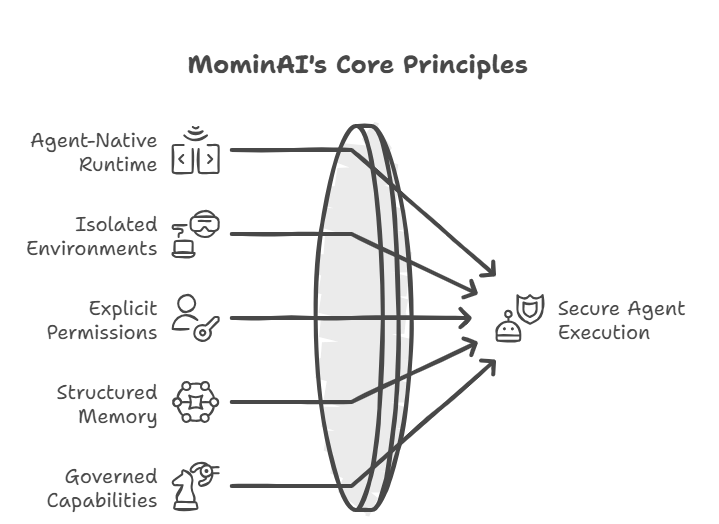
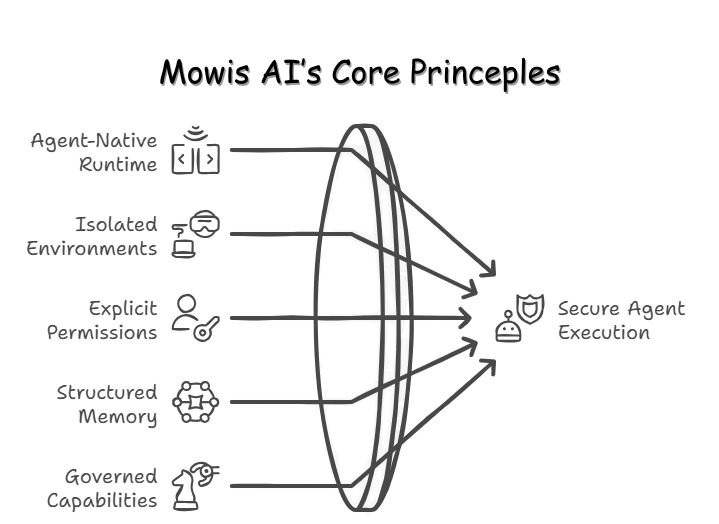
fix

Changed region(s): [[0.2142, 0.0916, 0.7955, 0.1832]]

diff --git a/src/components/Principles.jsx b/src/components/Principles.jsx
@@ -13,7 +13,7 @@ const Principles = () => {
                     viewport={{ once: true }}
                     transition={{ duration: 0.8 }}
                 >
-                    <h2 className="section-title">MominAI's Core <span className="text-gradient">Principles</span></h2>
+                    <h2 className="section-title">MowisAI's Core <span className="text-gradient">Principles</span></h2>
                     <p className="section-subtitle">
                         Built on the foundation of security, transparency, and agent-native architecture.
                     </p>

diff --git a/src/components/Navbar.css b/src/components/Navbar.css
@@ -34,9 +34,16 @@
 }
 
 .logo-image {
-    height: 40px;
+    height: 220px;
     width: auto;
     object-fit: contain;
+    transform: translateY(-5px);
+    transition: all 0.2s ease;
+}
+
+.navbar.scrolled .logo-image {
+    height: 180px;
+    transform: translateY(-5px);
 }
 
 .nav-links {

diff --git a/src/components/Hero.css b/src/components/Hero.css
@@ -164,7 +164,7 @@
 
 @media (max-width: 768px) {
     .hero-section {
-        padding-top: 100px;
+        padding-top: var(--nav-height);
     }
 
     .hero-title {

diff --git a/src/components/Footer.css b/src/components/Footer.css
@@ -17,7 +17,7 @@
 }
 
 .logo-image.small {
-    height: 32px;
+    height: 180px;
 }
 
 .footer-desc {

diff --git a/README.md b/README.md
@@ -34,8 +34,8 @@ It is built as a highly responsive Single Page Application (SPA) with a premium 
 
 1.  **Clone the repository**
     ```bash
-    git clone https://github.com/Momin010/MominAI-website.git
-    cd MominAI-website
+    git clone https://github.com/Momin010/MowisAI-website.git
+    cd MowisAI-website
     ```
 
 2.  **Install dependencies**
